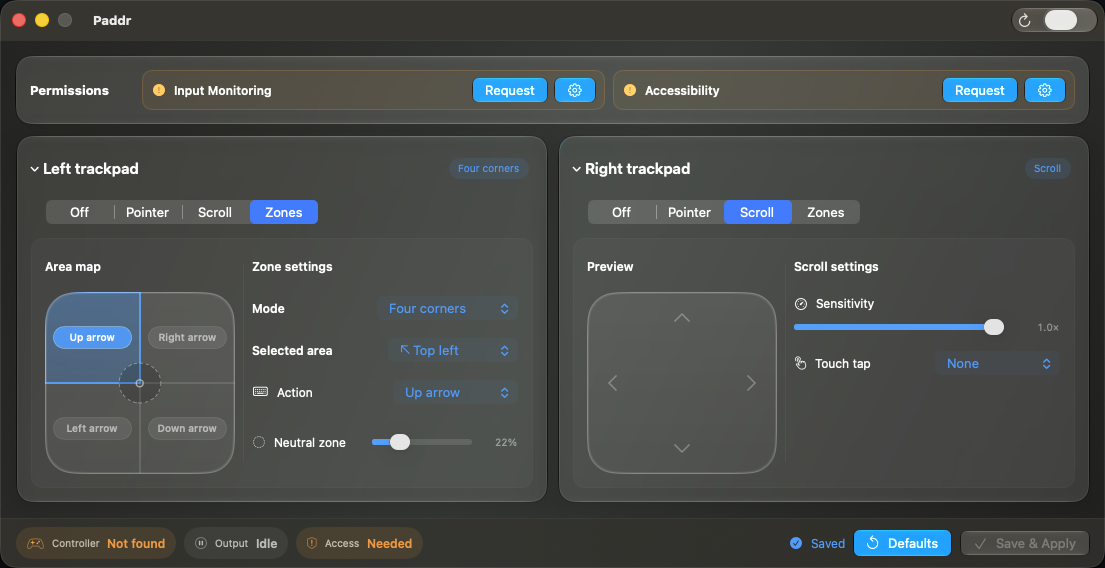
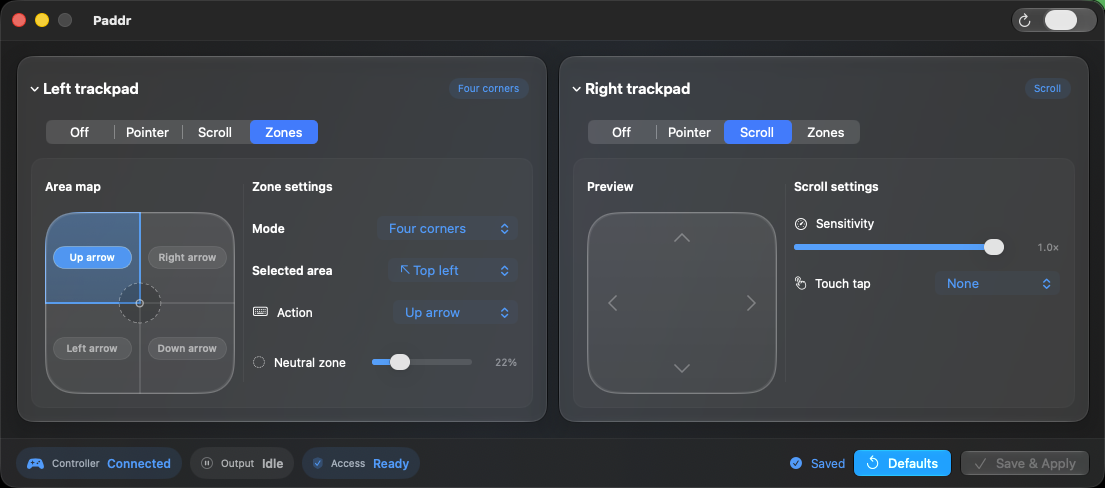
docs: final 0.9 screenshots (single-grant UI) and permissions figure

diff --git a/README.md b/README.md
@@ -5,7 +5,7 @@
 > [!WARNING]
 > Paddr is an early, hardware-specific beta built quickly after macOS 27 Beta 5 shipped. Expect bugs and compatibility changes. Please report reproducible problems in [Issues](https://github.com/zachspartofaday/Paddr/issues).
 
-![Paddr configuration window showing controller, access, and trackpad controls](docs/images/paddr-overview.png)
+![Paddr configuration window with the left trackpad set to Scroll, the right trackpad set to Pointer, and status pills showing Controller Connected, Output Idle, and Access Ready](docs/images/paddr-overview.png)
 
 ## What Paddr adds
 
@@ -16,7 +16,7 @@ Apple's HID service continues to provide native buttons, sticks, triggers, and c
 - touch-taps mapped to a keyboard key, left click, or right click; and
 - a pointer-mode center tap radius that reserves the pad center for tapping.
 
-![Paddr four-corner button-zone map and assignment inspector](docs/images/paddr-zones.png)
+![Paddr configuration window with the left trackpad set to Zones in Four corners mode, the Zone settings Mode row visible, the right trackpad set to Scroll, and status pills showing Controller Connected, Output Idle, and Access Ready](docs/images/paddr-zones.png)
 
 The interactive squircle map mirrors runtime hit-testing. Select a region on the map or with the **Selected area** pop-up, then assign its action. Radial, corner, and two-way layouts support an adjustable neutral region; the 3×3 layout dedicates the full pad to nine actions.
 
@@ -35,6 +35,9 @@ Puck mode is the only confirmed connection. Bluetooth and direct USB remain unva
 1. Download `Paddr.zip` from [Releases](https://github.com/zachspartofaday/Paddr/releases).
 2. Move `Paddr.app` to Applications and launch it.
 3. Grant Accessibility when prompted.
+
+![Paddr permission-request window showing one Accessibility tile with a Request button and Access Needed status](docs/images/paddr-permissions.png)
+
 4. Configure each trackpad and choose **Save & Apply**, or turn output on to save and activate the draft.
 
 Closing the configuration window leaves Paddr in the menu bar with quick actions for output, configuration, and quitting. The window remains ordinarily resizable but does not support full screen.
